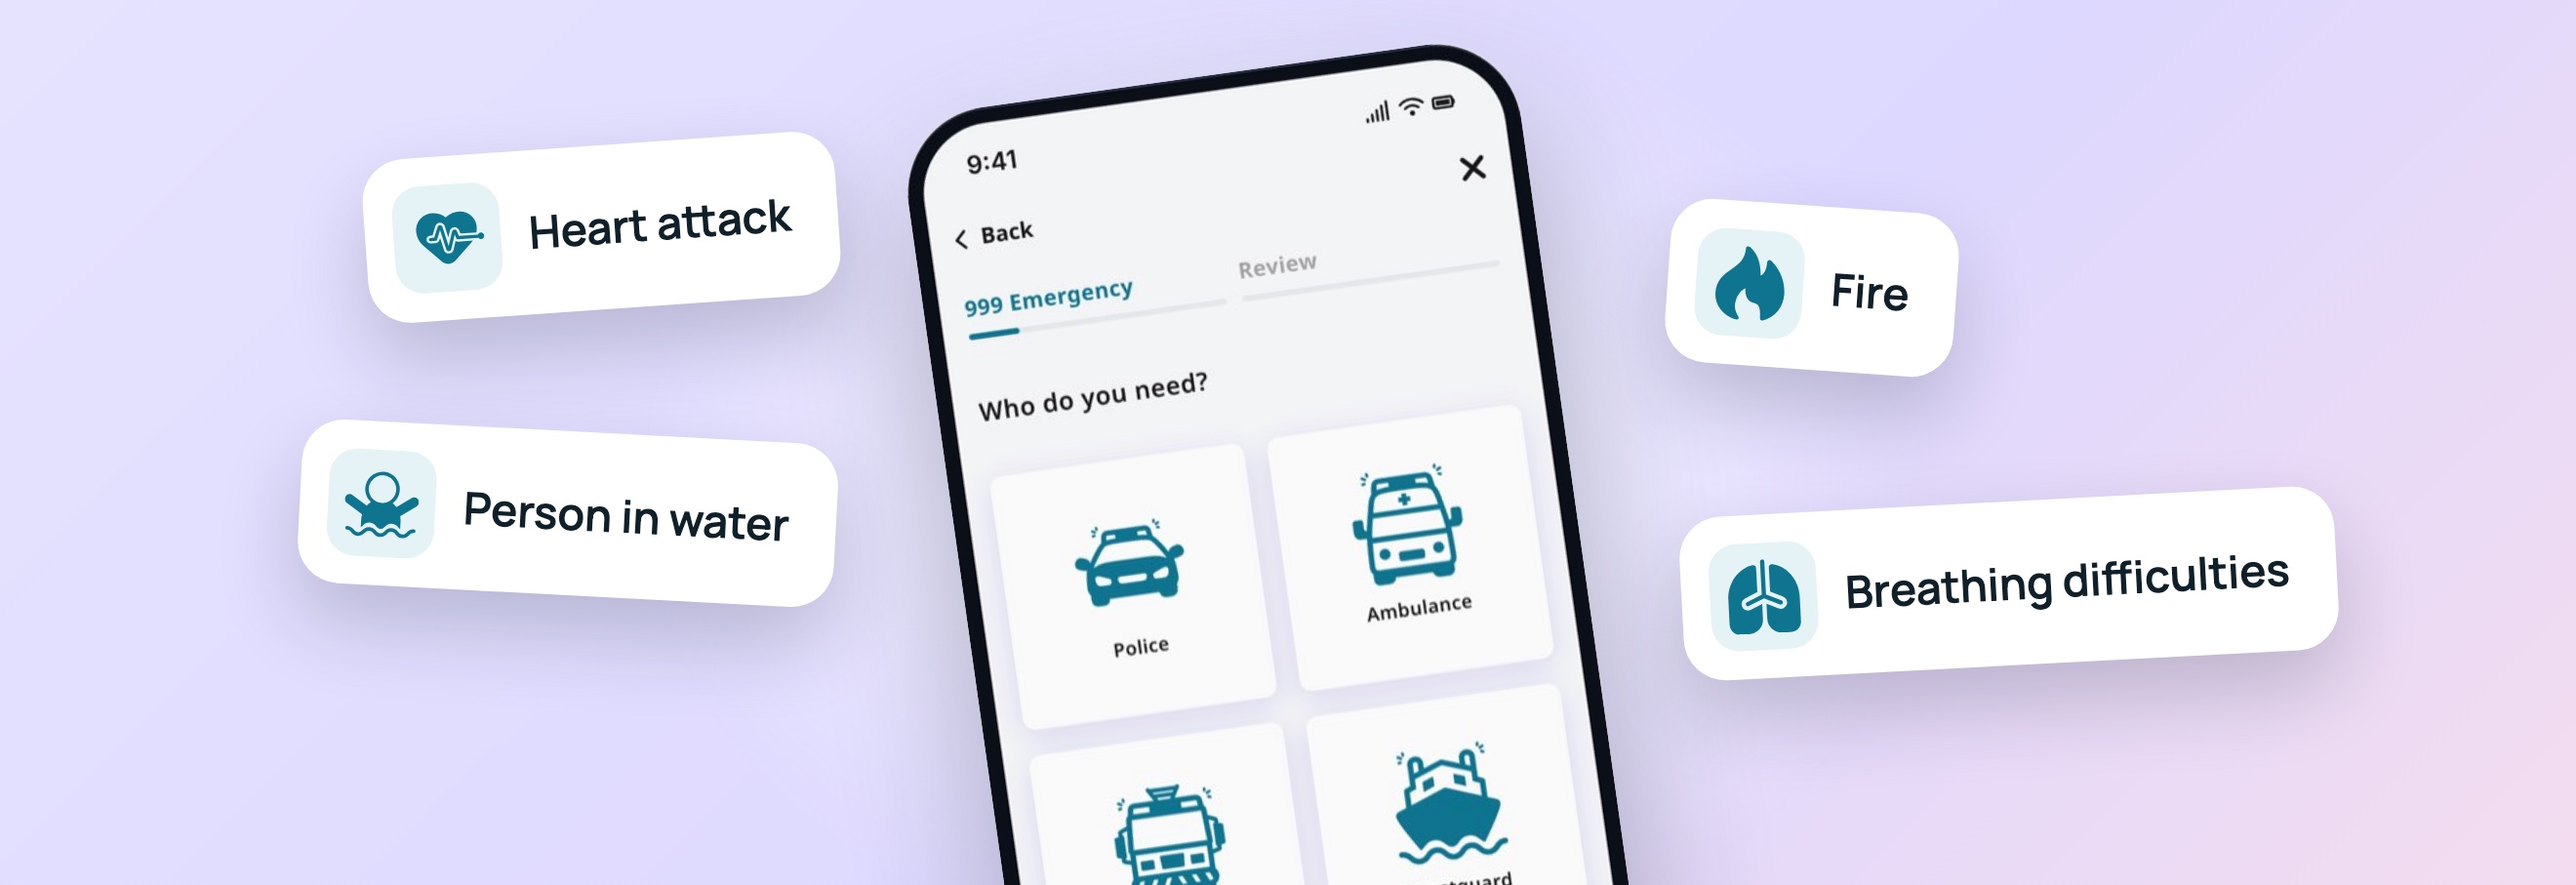
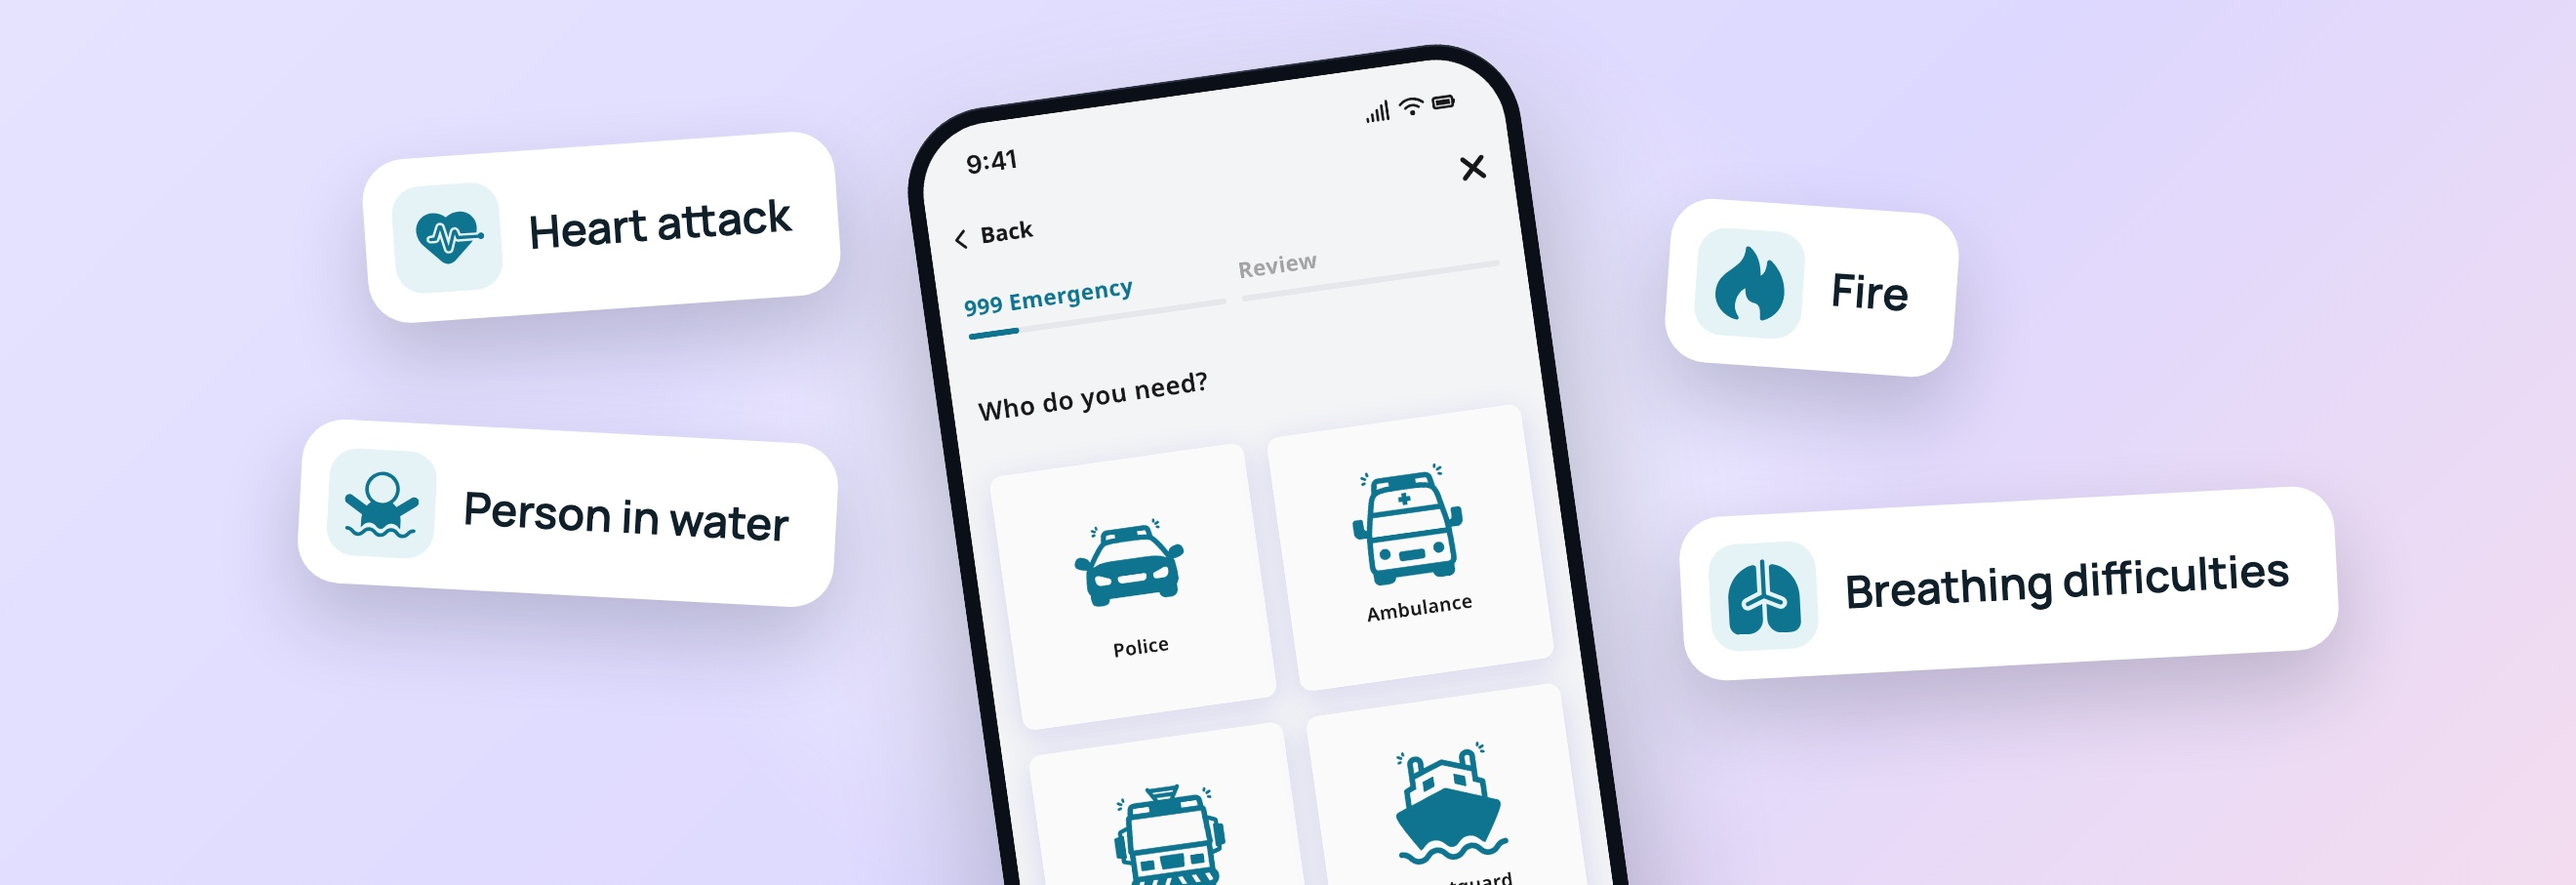
TapSOS card: sharper phone screen (#67)
- Re-rendered from the pack's 948px screen instead of the 480px copy
- Version query on both pages so browsers fetch the new images

diff --git a/index.html b/index.html
@@ -89,8 +89,8 @@
             <span class="ai-chip ai-chip--card" aria-hidden="true"><svg viewBox="0 0 24 24" aria-hidden="true" focusable="false"><path d="M11 3.5l1.8 5.2 5.2 1.8-5.2 1.8L11 17.5l-1.8-5.2L4 10.5l5.2-1.8z"/><path d="M18.5 14.5l.7 1.8 1.8.7-1.8.7-.7 1.8-.7-1.8-1.8-.7 1.8-.7z"/></svg>AI-assisted</span>
             <div class="project__overlay" aria-hidden="true"><p class="project__overlay-title">TapSOS</p><p class="project__overlay-desc">Contact the emergency services without saying a word.</p><span class="project__overlay-cta">View case study<svg class="project__arrow" viewBox="0 0 16 16" focusable="false"><path d="M2 8h11M9 4l4 4-4 4"/></svg></span></div>
             <picture>
-              <source media="(min-width: 900px)" srcset="images/tapsos/home-card-wide.jpg" width="2640" height="907">
-              <img class="media__img" src="images/tapsos/home-card.jpg" alt="" width="1200" height="826" loading="lazy">
+              <source media="(min-width: 900px)" srcset="images/tapsos/home-card-wide.jpg?v=2" width="2640" height="907">
+              <img class="media__img" src="images/tapsos/home-card.jpg?v=2" alt="" width="1200" height="826" loading="lazy">
             </picture>
           </div>
           <div class="project__caption" aria-hidden="true"><p class="project__caption-desc">Contact the emergency services without saying a word.</p><span class="project__cta">View case study<svg class="project__arrow" viewBox="0 0 16 16" aria-hidden="true" focusable="false"><path d="M2 8h11M9 4l4 4-4 4"/></svg></span></div>

diff --git a/tapsos.html b/tapsos.html
@@ -190,8 +190,8 @@
     <figure>
       <div class="media media--tapsos media--zoom" style="background: #e6e3ff" role="img" aria-label="The TapSOS Who do you need? screen, where people choose Police, Ambulance, Fire &amp; Rescue or Coastguard, tilted on a lilac background">
         <picture>
-          <source media="(min-width: 900px)" srcset="images/tapsos/home-card-wide.jpg" width="2640" height="907">
-          <img class="media__img" src="images/tapsos/home-card.jpg" alt="" width="1200" height="826">
+          <source media="(min-width: 900px)" srcset="images/tapsos/home-card-wide.jpg?v=2" width="2640" height="907">
+          <img class="media__img" src="images/tapsos/home-card.jpg?v=2" alt="" width="1200" height="826">
         </picture>
       </div>
       <figcaption class="caption">Choosing who you need, the step after sharing your location. Rebuilt from the TapSOS 2.0 release.</figcaption>
